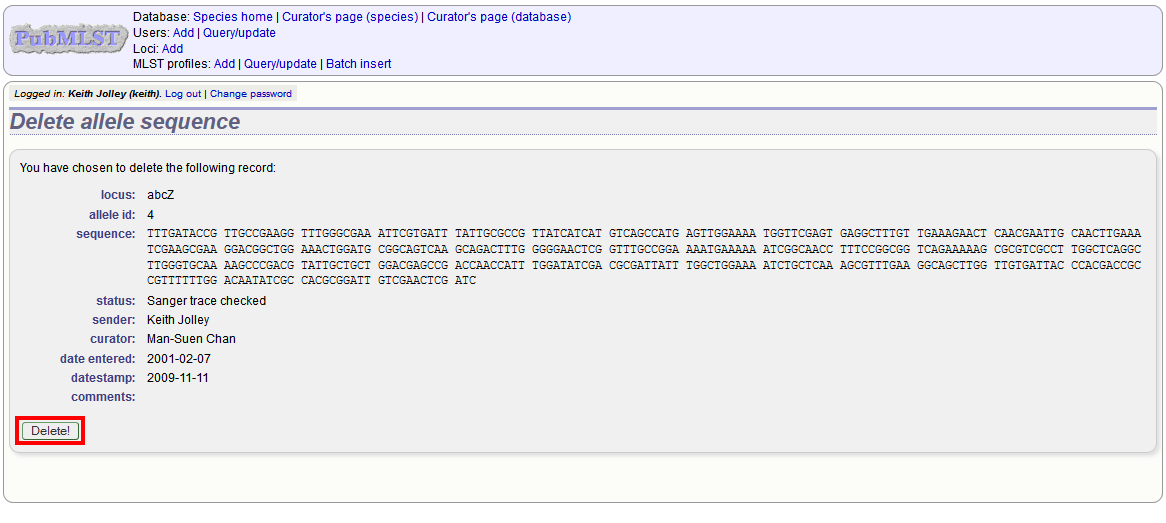
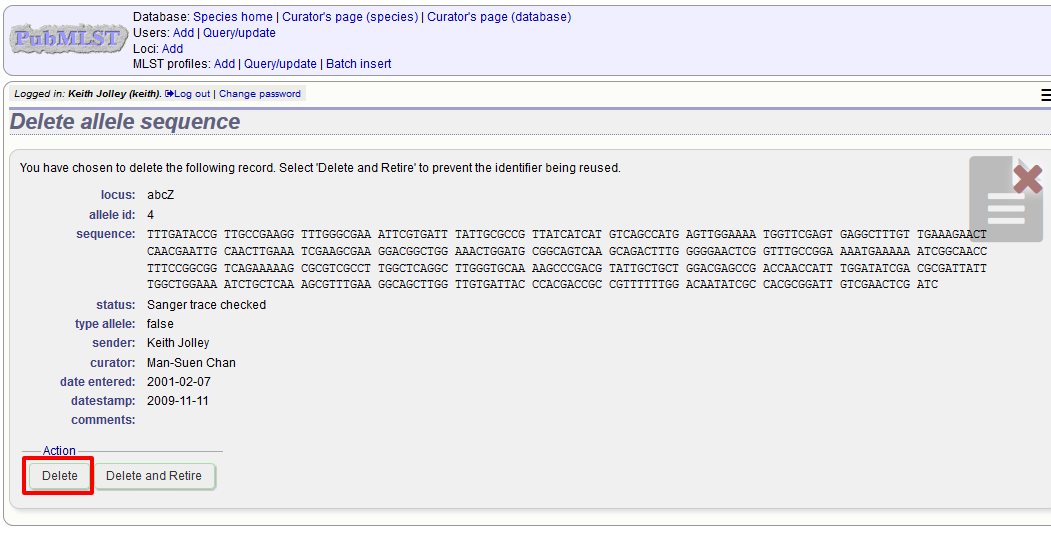
Retiring profiles. Closes #10.

Changed region(s): [[0.0, 0.0, 1.0, 0.979]]

diff --git a/curator_guide.rst b/curator_guide.rst
@@ -210,6 +210,8 @@ will not be uploaded (you can still upload the others), e.g.
 
 .. image:: /images/curation/add_alleles11.png
 
+.. _update_delete_allele:
+
 *************************************************
 Updating and deleting allele sequence definitions
 *************************************************
@@ -244,7 +246,9 @@ ALL'. This allows you to quickly delete all alleles returned from a search.
 If you choose to delete, you will be presented with a final confirmation 
 screen. To go ahead, click 'Delete!'. Deletion will not be possible if the 
 allele is part of a scheme profile - if it is you will need to delete any 
-profiles that it is a member of first.
+profiles that it is a member of first. You can also choose to delete and
+retire the allele identifier. If you do this, the allele identifier will not
+be re-used.
 
 .. image:: /images/curation/delete_allele.png
 
@@ -281,6 +285,9 @@ Select the locus from the dropdown list box and enter the allele id. Click
 You cannot retire an allele that already exists, so you must delete it before
 retiring it.  Once an identifier is retired, you will not be able to create a 
 new allele with that name.  
+
+You can also retire an allele identifier when you 
+:ref:`delete an allele<update_delete_allele>`. 
 
 ***************************
 Updating locus descriptions
@@ -418,6 +425,8 @@ you wish to proceed with the submission, click 'Import data'.
 
 .. image:: /images/curation/add_scheme_profile6.png
 
+.. _update_delete_profile:
+
 ************************************************
 Updating and deleting scheme profile definitions
 ************************************************
@@ -436,7 +445,9 @@ Alternatively, if your account has permission, you may be able to 'Delete ALL'
 records retrieved from the search.
 
 For deletion of a single record, the full record will be displayed. Confirm 
-deletion by clicking 'Delete!'.
+deletion by clicking 'Delete'. You can also choose to delete and
+retire the profile identifier. If you do this, the profile identifier will not
+be re-used.
 
 .. image:: /images/curation/delete_scheme_profile.png
 
@@ -444,6 +455,33 @@ To modify the profile, click the 'Update' link next to the profile following
 the query. A form will be displayed - make any changes and then click 'Update'.
 
 .. image:: /images/curation/update_scheme_profile3.png
+
+***********************************
+Retiring scheme profile definitions
+***********************************
+Sometimes there is a requirement to prevent the automated assignment of a 
+particular profile identifier (e.g. ST) - a profile with that identifier may 
+have been commonly used and has since been removed. Reassignment of the 
+identifier to a new profile may lead to confusion, so in this instance, it 
+would be better to prevent this.
+
+You can retire a profile identifier by clicking the 'Add' retired profiles
+link on the sequence database curators' page.
+
+.. image:: /images/curation/retire_profile1.png
+
+Select the scheme from the dropdown list box and enter the profile id. Click
+'Submit'.
+
+.. image:: /images/curation/retire_profile2.png
+
+You cannot retire a profile identifier that already exists, so you must delete 
+it before retiring it.  Once an identifier is retired, you will not be able to 
+create a new profile with that name.  
+
+You can also retire an allele identifier when you 
+:ref:`delete a profile<update_delete_profile>`. 
+
 
 .. index::
    pair: adding; isolates
